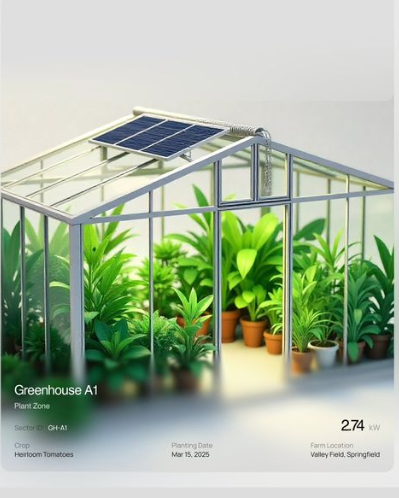
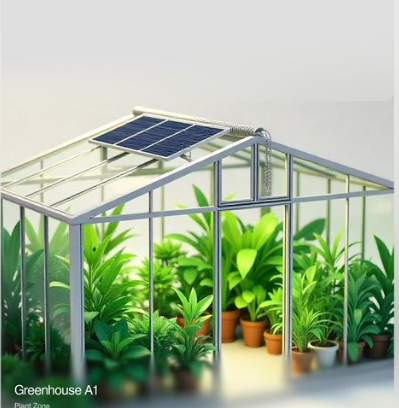
fix(glass-mode): fix arc gauge paths, remove baked-in hero text, clean dot matrix labels, and refine header alignment

diff --git a/src/components/GlassDashboard.tsx b/src/components/GlassDashboard.tsx
@@ -1,4 +1,4 @@
-import React, { useState } from "react";
+import React, { useState } from "react";
 import {
   Maximize2,
   AlertTriangle,
@@ -28,6 +28,53 @@ interface GlassDashboardProps {
   setMode: (mode: "standard" | "glass") => void;
 }
 
+function ArcGauge({
+  value,
+  label,
+  color = "#22c55e",
+  percent = 70,
+}: {
+  value: number;
+  label: string;
+  color?: string;
+  percent?: number;
+}) {
+  const arcLength = 125.66;
+  const strokeOffset = arcLength * (1 - Math.min(1, Math.max(0, percent / 100)));
+
+  return (
+    <div className="flex flex-col items-center justify-center text-center">
+      <div className="relative w-28 h-18 flex items-center justify-center">
+        <svg className="w-full h-full" viewBox="0 0 110 65">
+          {/* Background Track */}
+          <path
+            d="M 15,55 A 40,40 0 0,1 95,55"
+            fill="none"
+            stroke="#f1f5f9"
+            strokeWidth="7"
+            strokeLinecap="round"
+          />
+          {/* Active Fill */}
+          <path
+            d="M 15,55 A 40,40 0 0,1 95,55"
+            fill="none"
+            stroke={color}
+            strokeWidth="7"
+            strokeLinecap="round"
+            strokeDasharray={arcLength}
+            strokeDashoffset={strokeOffset}
+            className="transition-all duration-1000 ease-out"
+          />
+        </svg>
+        <div className="absolute inset-0 flex flex-col items-center justify-end pb-0.5">
+          <span className="text-2xl font-bold text-slate-900 tabular-nums tracking-tight">{value}</span>
+        </div>
+      </div>
+      <p className="text-xs text-slate-500 font-light mt-1">{label}</p>
+    </div>
+  );
+}
+
 export function GlassDashboard({
   simulation,
   onSectorSelect,
@@ -43,13 +90,13 @@ export function GlassDashboard({
   const selectedSector = sectors.find((s) => s.id === focusedSectorId) || sectors[0];
 
   return (
-    <div className="min-h-screen bg-[#eef1f4] text-[#1e293b] p-4 md:p-8 font-sans antialiased flex flex-col justify-center items-center">
+    <div className="min-h-screen bg-[#eef1f4] text-[#1e293b] p-3 md:p-6 lg:p-8 font-sans antialiased flex flex-col justify-center items-center">
       {/* Outer Glass Frame */}
-      <div className="w-full max-w-[1580px] bg-[#f8fafc]/90 backdrop-blur-2xl rounded-[32px] p-5 md:p-8 border border-white/80 shadow-[0_20px_60px_rgba(0,0,0,0.06),0_1px_3px_rgba(0,0,0,0.03)] flex flex-col gap-6">
+      <div className="w-full max-w-[1580px] bg-[#f8fafc]/95 backdrop-blur-2xl rounded-[32px] p-4 md:p-7 border border-white shadow-[0_20px_60px_rgba(0,0,0,0.05),0_1px_3px_rgba(0,0,0,0.02)] flex flex-col gap-5">
         
         {/* Top Header */}
-        <header className="flex flex-col md:flex-row items-center justify-between gap-4 pb-2">
-          {/* Logo Mark */}
+        <header className="flex flex-col md:flex-row items-center justify-between gap-4 pb-1">
+          {/* Left: Logo Mark */}
           <div className="flex items-center gap-3 w-full md:w-auto justify-between md:justify-start">
             <div className="flex items-center gap-2.5">
               <div className="h-10 w-10 rounded-2xl bg-black text-white flex items-center justify-center shadow-md shadow-black/10">
@@ -86,10 +133,27 @@ export function GlassDashboard({
             </div>
           </div>
 
-          {/* Center/Right Tabs & Profile */}
+          {/* Center: Navigation Pills */}
+          <div className="hidden lg:flex items-center gap-1 bg-slate-100 p-1 rounded-full text-xs border border-slate-200/50">
+            {(["overview", "analytics", "monitoring"] as const).map((tab) => (
+              <button
+                key={tab}
+                onClick={() => setActiveTab(tab)}
+                className={`px-4 py-1.5 rounded-full capitalize transition-all ${
+                  activeTab === tab
+                    ? "bg-white text-slate-900 font-medium shadow-sm"
+                    : "text-slate-500 hover:text-slate-900 font-normal"
+                }`}
+              >
+                {tab}
+              </button>
+            ))}
+          </div>
+
+          {/* Right: Mode Switcher, Bell & Profile */}
           <div className="flex items-center gap-3 w-full md:w-auto justify-end flex-wrap">
             {/* Mode Switcher Pill */}
-            <div className="hidden md:flex items-center gap-1 bg-slate-200/70 p-1 rounded-full text-xs mr-2">
+            <div className="hidden md:flex items-center gap-1 bg-slate-200/70 p-1 rounded-full text-xs">
               <button
                 onClick={() => setMode("standard")}
                 className={`px-3.5 py-1.5 rounded-full transition-all flex items-center gap-1.5 ${
@@ -108,23 +172,6 @@ export function GlassDashboard({
                 <Sparkles className="h-3.5 w-3.5 text-emerald-400" />
                 Glass Mode
               </button>
-            </div>
-
-            {/* Navigation Pills */}
-            <div className="flex items-center gap-1 bg-slate-100 p-1 rounded-full text-xs border border-slate-200/50">
-              {(["overview", "analytics", "monitoring"] as const).map((tab) => (
-                <button
-                  key={tab}
-                  onClick={() => setActiveTab(tab)}
-                  className={`px-4 py-1.5 rounded-full capitalize transition-all ${
-                    activeTab === tab
-                      ? "bg-white text-slate-900 font-medium shadow-sm"
-                      : "text-slate-500 hover:text-slate-900 font-normal"
-                  }`}
-                >
-                  {tab}
-                </button>
-              ))}
             </div>
 
             {/* Bell Icon */}
@@ -150,7 +197,7 @@ export function GlassDashboard({
         </header>
 
         {/* Main 3-Column Glass Layout */}
-        <div className="grid grid-cols-1 lg:grid-cols-12 gap-5 items-stretch">
+        <div className="grid grid-cols-1 lg:grid-cols-12 gap-4 md:gap-5 items-stretch">
           
           {/* LEFT COLUMN: Conditions, Consumption & Alerts */}
           <div className="lg:col-span-3 flex flex-col gap-4">
@@ -274,12 +321,12 @@ export function GlassDashboard({
           <div className="lg:col-span-5 flex flex-col">
             <div className="bg-white rounded-[32px] p-4 border border-slate-100 shadow-[0_6px_35px_rgba(0,0,0,0.04)] h-full flex flex-col relative overflow-hidden group">
               {/* Sector Quick Picker */}
-              <div className="flex items-center justify-between mb-3 px-2">
+              <div className="flex items-center justify-between mb-3 px-2 flex-wrap gap-2">
                 <div className="flex items-center gap-2">
                   <span className="h-2 w-2 rounded-full bg-emerald-500 animate-ping" />
                   <span className="text-xs font-semibold text-slate-800">{selectedSector.name}</span>
                 </div>
-                <div className="flex items-center gap-1">
+                <div className="flex items-center gap-1 flex-wrap">
                   {sectors.slice(0, 4).map((s) => (
                     <button
                       key={s.id}
@@ -305,7 +352,7 @@ export function GlassDashboard({
                 />
 
                 {/* Bottom Glass Overlay Card */}
-                <div className="absolute bottom-3 left-3 right-3 bg-white/80 backdrop-blur-xl p-4 rounded-2xl border border-white/60 shadow-lg flex flex-col gap-2">
+                <div className="absolute bottom-3 left-3 right-3 bg-white/85 backdrop-blur-xl p-4 rounded-2xl border border-white/70 shadow-lg flex flex-col gap-2">
                   <div className="flex items-start justify-between">
                     <div>
                       <h3 className="text-base font-semibold text-slate-900 leading-snug">
@@ -359,75 +406,18 @@ export function GlassDashboard({
 
               {/* Two Circular Semi-Arc Gauges */}
               <div className="grid grid-cols-2 gap-4 items-center justify-center py-2">
-                {/* Gauge 1 */}
-                <div className="flex flex-col items-center justify-center text-center">
-                  <div className="relative w-28 h-20 flex items-center justify-center">
-                    <svg className="w-full h-full transform -rotate-90" viewBox="0 0 100 80">
-                      <circle
-                        cx="50"
-                        cy="50"
-                        r="36"
-                        fill="none"
-                        stroke="#f1f5f9"
-                        strokeWidth="8"
-                        strokeDasharray="140"
-                        strokeDashoffset="28"
-                        strokeLinecap="round"
-                      />
-                      <circle
-                        cx="50"
-                        cy="50"
-                        r="36"
-                        fill="none"
-                        stroke="#22c55e"
-                        strokeWidth="8"
-                        strokeDasharray="140"
-                        strokeDashoffset="75"
-                        strokeLinecap="round"
-                        className="transition-all duration-1000"
-                      />
-                    </svg>
-                    <div className="absolute inset-0 flex flex-col items-center justify-center pt-2">
-                      <span className="text-2xl font-bold text-slate-900 tabular-nums">42</span>
-                    </div>
-                  </div>
-                  <p className="text-xs text-slate-500 font-light mt-1">CO₂ 420 ppm</p>
-                </div>
-
-                {/* Gauge 2 */}
-                <div className="flex flex-col items-center justify-center text-center">
-                  <div className="relative w-28 h-20 flex items-center justify-center">
-                    <svg className="w-full h-full transform -rotate-90" viewBox="0 0 100 80">
-                      <circle
-                        cx="50"
-                        cy="50"
-                        r="36"
-                        fill="none"
-                        stroke="#f1f5f9"
-                        strokeWidth="8"
-                        strokeDasharray="140"
-                        strokeDashoffset="28"
-                        strokeLinecap="round"
-                      />
-                      <circle
-                        cx="50"
-                        cy="50"
-                        r="36"
-                        fill="none"
-                        stroke="#10b981"
-                        strokeWidth="8"
-                        strokeDasharray="140"
-                        strokeDashoffset="60"
-                        strokeLinecap="round"
-                        className="transition-all duration-1000"
-                      />
-                    </svg>
-                    <div className="absolute inset-0 flex flex-col items-center justify-center pt-2">
-                      <span className="text-2xl font-bold text-slate-900 tabular-nums">56</span>
-                    </div>
-                  </div>
-                  <p className="text-xs text-slate-500 font-light mt-1">Grid Health 6.8</p>
-                </div>
+                <ArcGauge
+                  value={42}
+                  label="CO₂ 420 ppm"
+                  color="#22c55e"
+                  percent={42}
+                />
+                <ArcGauge
+                  value={56}
+                  label="Grid Health 6.8"
+                  color="#10b981"
+                  percent={56}
+                />
               </div>
             </div>
 
@@ -466,11 +456,11 @@ export function GlassDashboard({
                   { time: "00:00", activeDots: 1 },
                   { time: "04:00", activeDots: 2 },
                   { time: "08:00", activeDots: 5 },
-                  { time: "12:00", activeDots: 7 },
+                  { time: "12:00", activeDots: 7, isCurrent: true },
                   { time: "16:00", activeDots: 4 },
                   { time: "20:00", activeDots: 6 },
                 ].map((col, idx) => (
-                  <div key={idx} className="flex flex-col items-center gap-1.5">
+                  <div key={idx} className="flex flex-col items-center gap-1.5 select-none">
                     {/* Vertical Stack of 8 Dots */}
                     <div className="flex flex-col-reverse gap-1.5">
                       {Array.from({ length: 8 }).map((_, dotIdx) => (
@@ -478,13 +468,19 @@ export function GlassDashboard({
                           key={dotIdx}
                           className={`h-2.5 w-2.5 rounded-full transition-all duration-500 ${
                             dotIdx < col.activeDots
-                              ? "bg-[#22c55e] shadow-[0_0_8px_rgba(34,197,94,0.6)]"
+                              ? "bg-[#22c55e] shadow-[0_0_8px_rgba(34,197,94,0.5)]"
                               : "bg-slate-100"
                           }`}
                         />
                       ))}
                     </div>
-                    <span className="text-[10px] text-slate-400 font-mono mt-1">{col.time}</span>
+                    {col.isCurrent ? (
+                      <span className="text-[9px] font-mono text-slate-900 font-bold bg-slate-100 px-1.5 py-0.5 rounded-md mt-1">
+                        {col.time}
+                      </span>
+                    ) : (
+                      <span className="text-[10px] text-slate-400 font-mono mt-1">{col.time}</span>
+                    )}
                   </div>
                 ))}
               </div>
